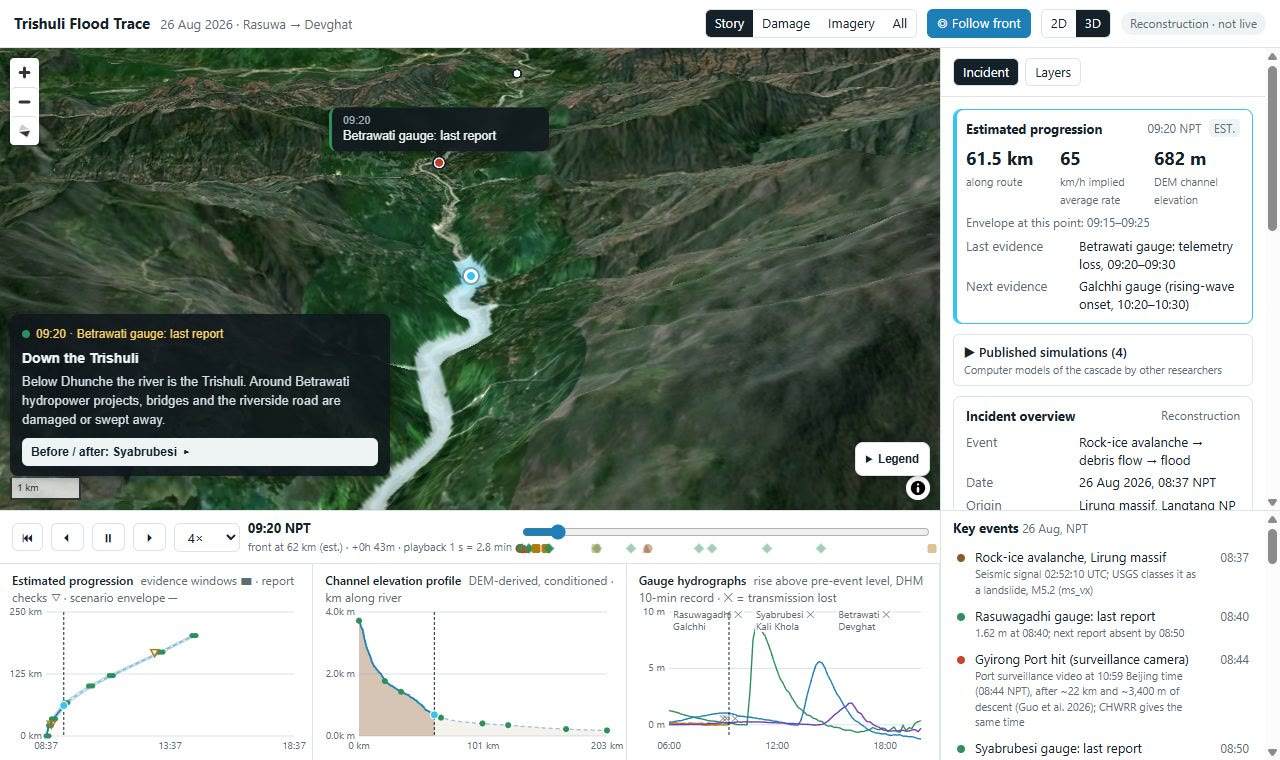
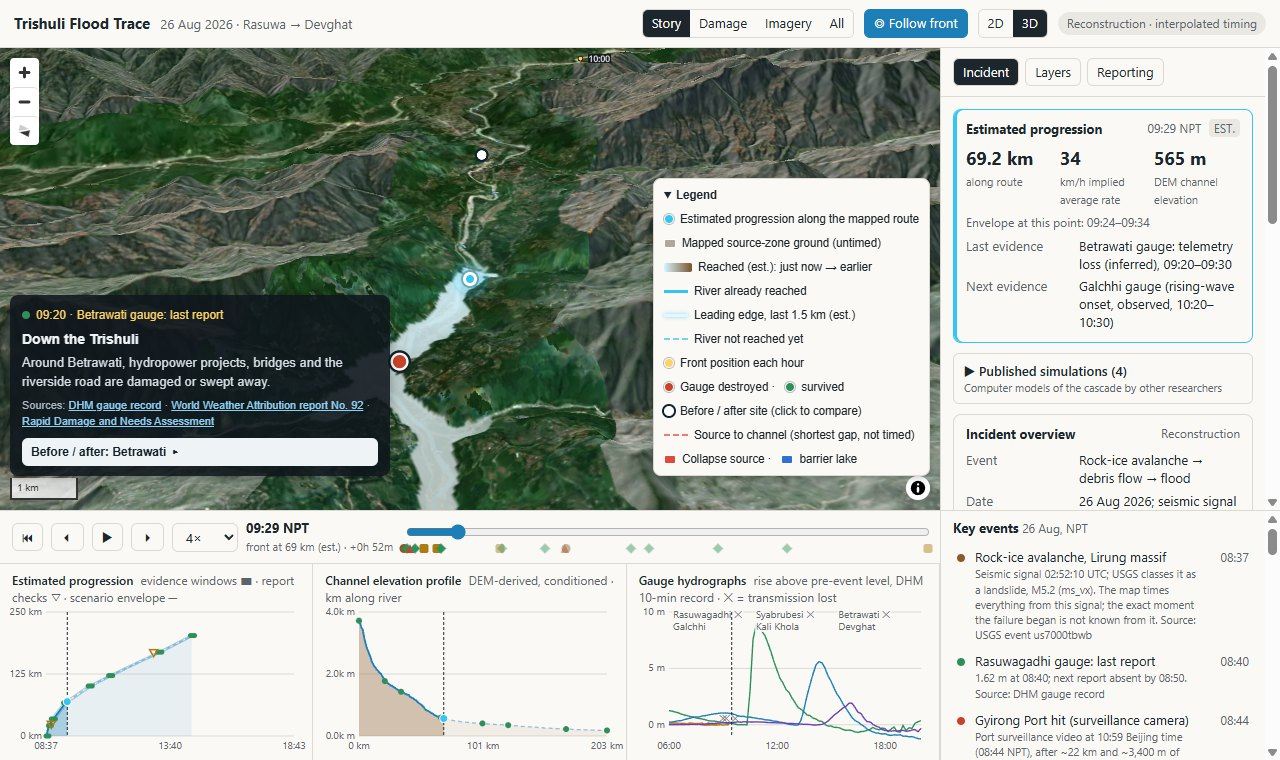
I re-recorded the README captures to match the live map
After the visual changes went live, the images in the README still showed the old look, so anyone arriving from GitHub saw something different from the app. I recorded the hero animation, the full app screenshot and the charts strip again from the live site. I kept the hero shorter and more compressed than before, which makes the page noticeably lighter to load.

I also added a picture of one Reporting card, because the idea of showing each report as it stood at the time is easier to grasp from an example than from a sentence. The hero caption now says the recording is sped up beyond the app's own playback setting, since that is how this capture was made.

diff --git a/README.md b/README.md
@@ -8,7 +8,7 @@
 
 <a href="https://trishuli-flood-trace.vercel.app"><img src="docs/media/map_run.webp" width="820" alt="The 3D map following the flood front from the Lirung massif down the Lende Khola and Bhote Koshi gorges, with event captions"></a>
 
-<sub>The live map following the flood front at 4× speed (Lirung massif to Malekhu). Basemap: EOxCloudless 2025, CC BY-NC-SA 4.0.</sub>
+<sub>The live map following the flood front at its 4× playback setting, sped up further here (Lirung massif to Malekhu). Basemap: EOxCloudless 2025, CC BY-NC-SA 4.0.</sub>
 
 </div>
 
@@ -41,6 +41,8 @@ By 7 November 2026, 1,459 people were reported dead and 5,285 were still missing
 - **Separates what was observed from what is estimated**: mapped landslides and building damage (Copernicus EMS, 2026) are never given a time.
 - **Steps through 17 key events**, each with a sourced caption, and links them to before/after imagery and published simulations.
 - **Shows what was reported at the time:** a Reporting tab adds each news report when that version went public, taken from archived copies, so early guesses about the cause appear as they were made.
+
+<img src="docs/media/reporting.jpg" width="320" alt="A Reporting tab card: a Firstpost copy of a Reuters report timed 14:05 NPT, with a note that the cause was unconfirmed at the time">
 
 ### Charts that move with the timeline
 
